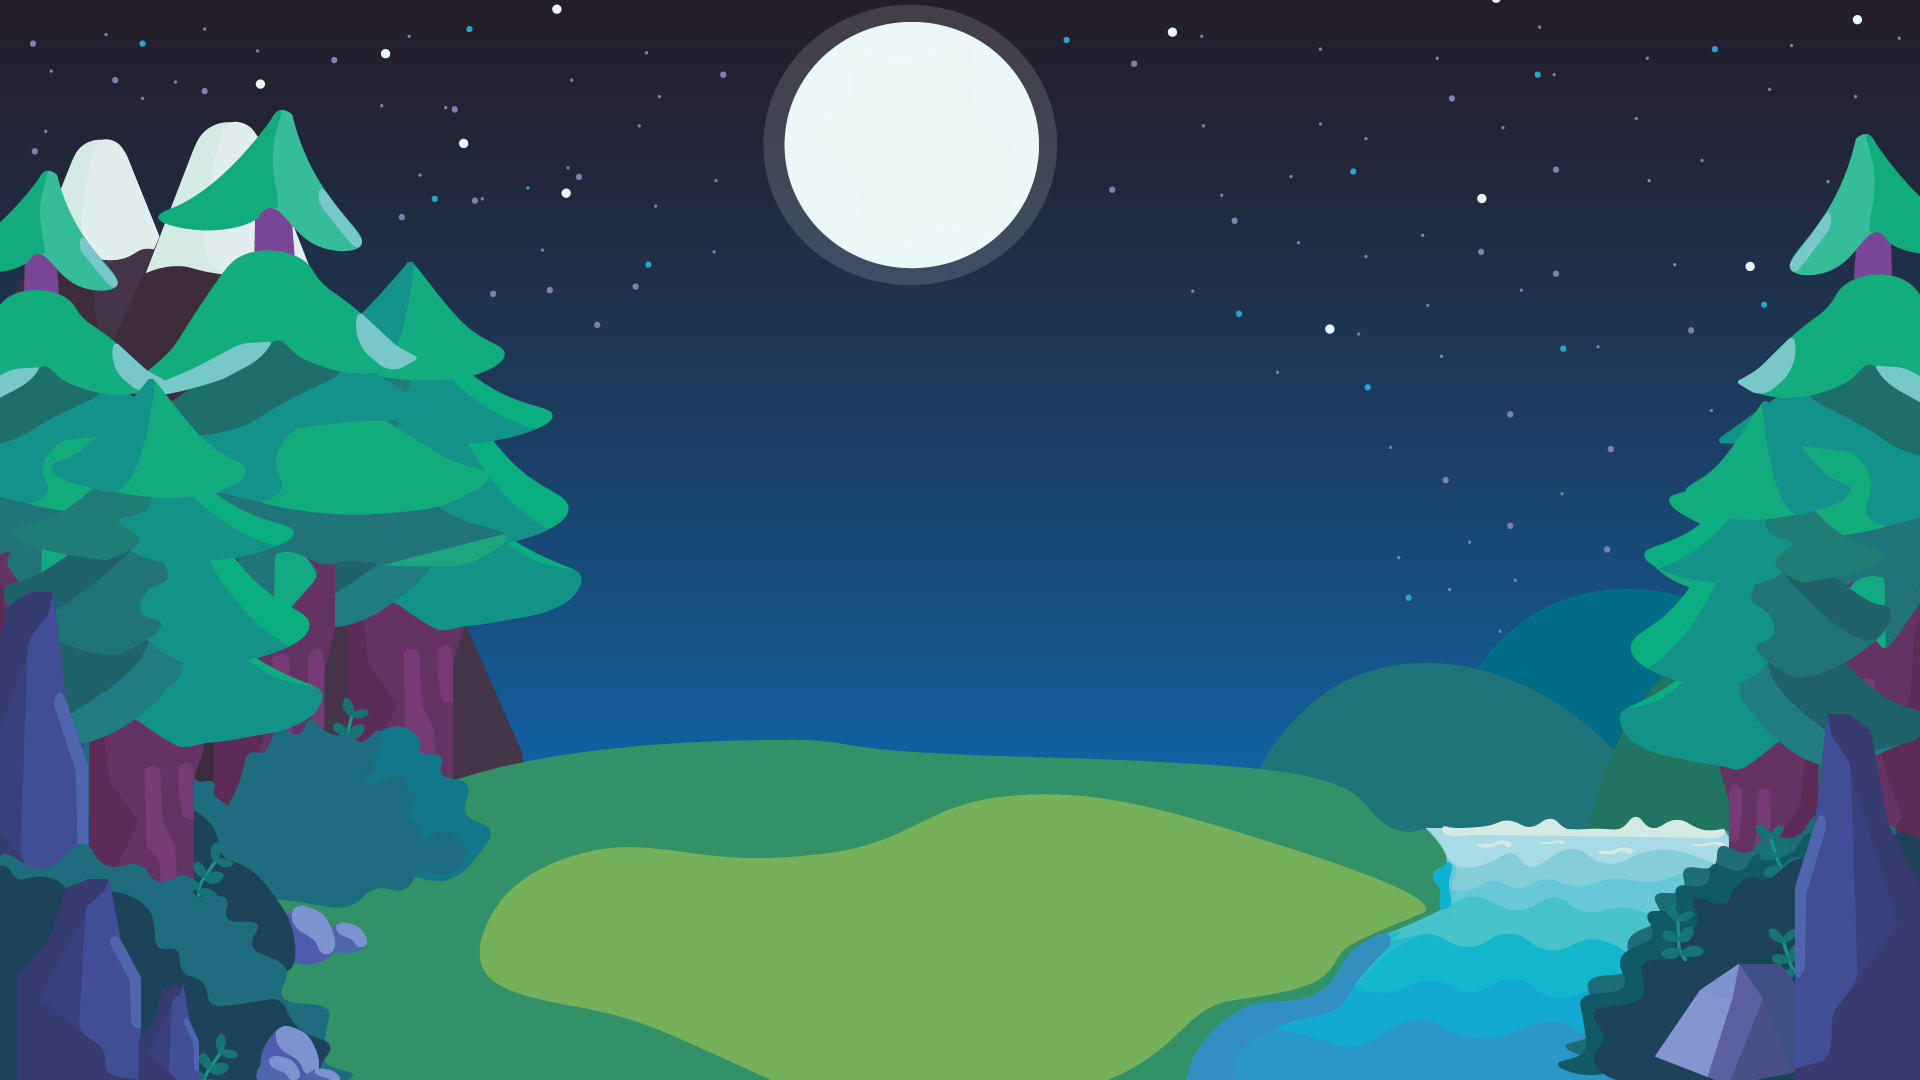
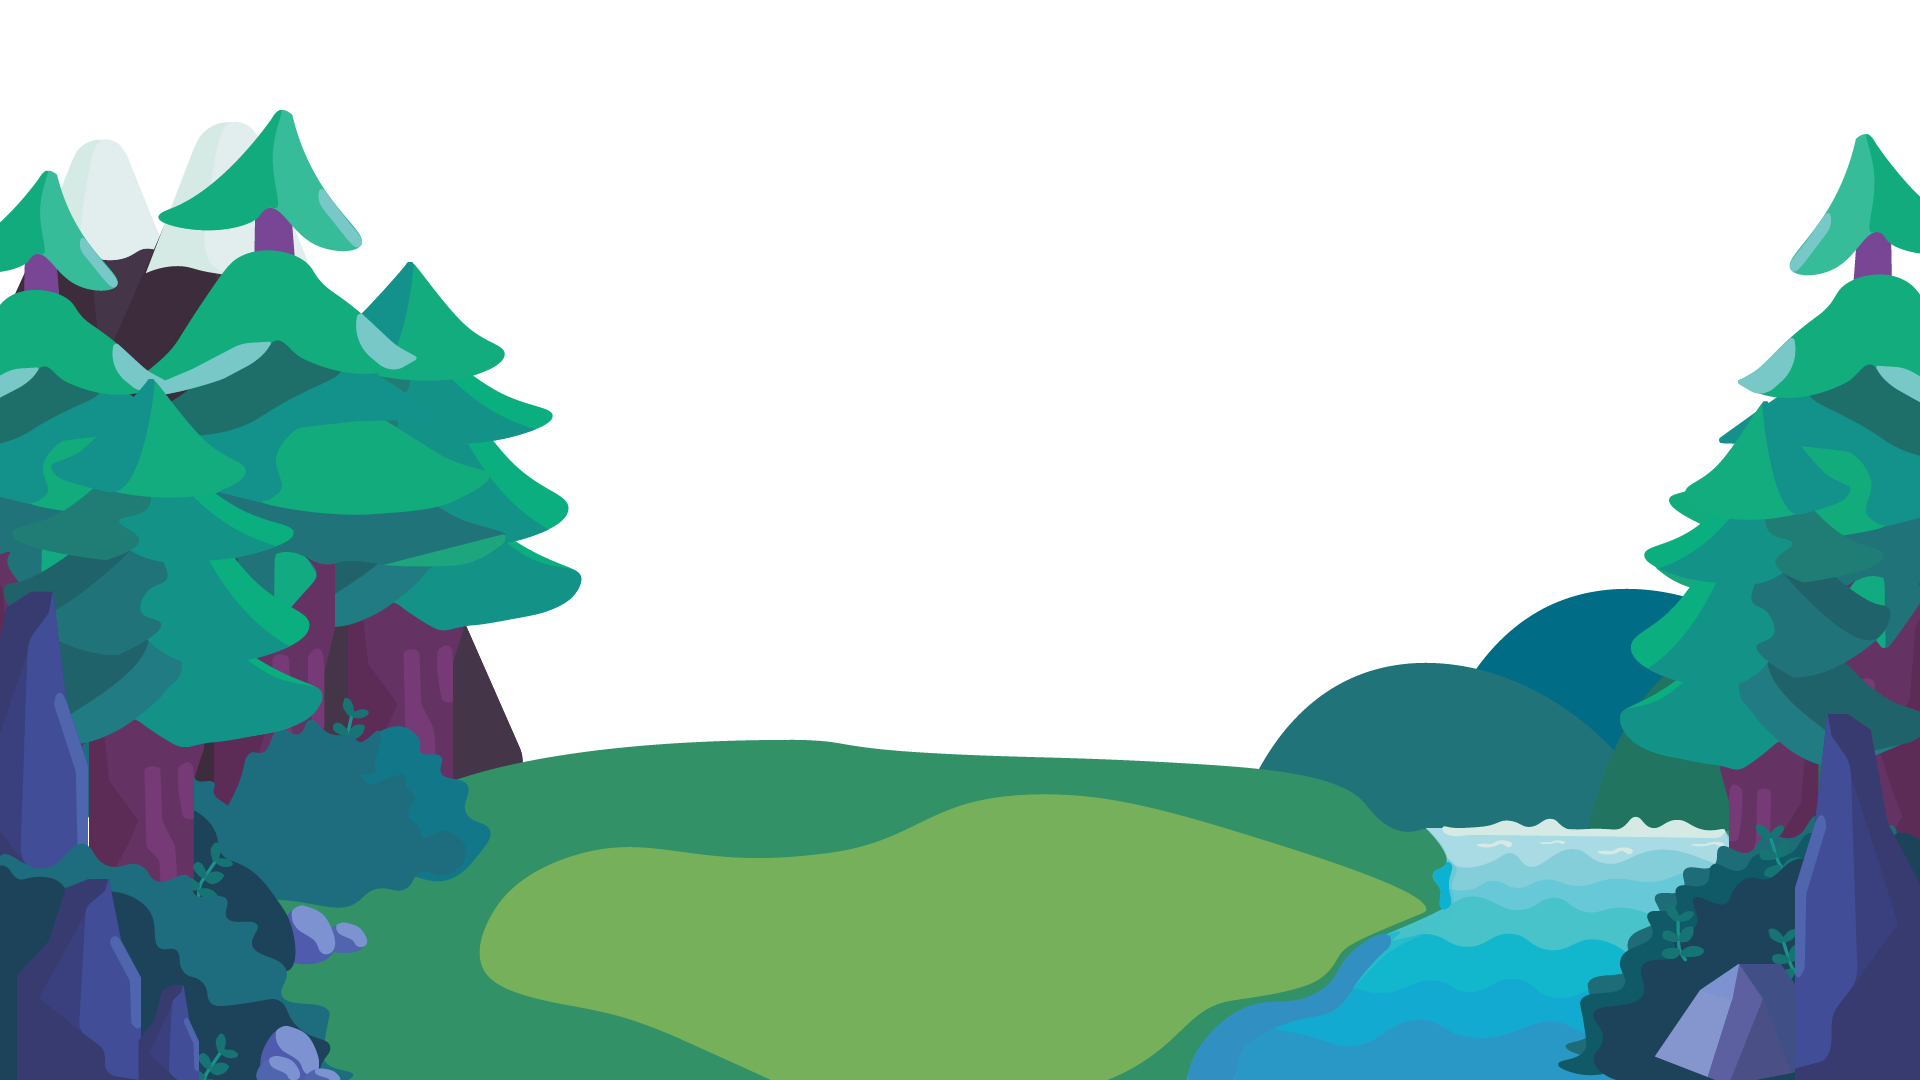
Feat: added dark mode

diff --git a/src/components/HomePage/Home.tsx b/src/components/HomePage/Home.tsx
@@ -22,7 +22,10 @@ export const scrollToSection = (
 
 const HomePage: React.FunctionComponent<IHomeProps> = (props) => {
   const [dimHeader, setDimHeader] = useState<boolean>(false);
+  const [lightMode, setLightMode] = useState<boolean>(false);
   const scrollComponentRef = useRef<HTMLDivElement>(null);
+  const [hovered, setHovered] = useState<boolean>(false);
+  const [highlightImage, setHighlightImage] = useState<string>("");
   const navigate = useNavigate();
 
   useEffect(() => {
@@ -56,6 +59,28 @@ const HomePage: React.FunctionComponent<IHomeProps> = (props) => {
         exit={{ opacity: 0, y: 400 }}
         transition={{ duration: 0.2 }}
       >
+        <div className="context-menu">
+          <a href="https://www.linkedin.com/in/roberto-gonzales-matos-a24092295/">
+            <img
+              src="/PortfolioWebsite/LinkedIn.webp"
+              style={{ width: "50px", height: "auto", borderRadius: "15px" }}
+            />
+          </a>
+          <a href="https://github.com/RobertoGonzalesMatos/PortfolioWebsite">
+            <img
+              src="/PortfolioWebsite/GitHub.webp"
+              style={{ width: "50px", height: "auto" }}
+            />
+          </a>
+          <img
+            className="SunMoon"
+            onClick={() => {
+              setLightMode(!lightMode);
+            }}
+            src={"/PortfolioWebsite/" + (lightMode ? "Luna" : "Sol") + ".webp"}
+            alt="SunMoon"
+          />
+        </div>
         <VerticalScroll ref={scrollComponentRef}>
           <div className="bannerContainer">
             <Banner />
@@ -63,6 +88,17 @@ const HomePage: React.FunctionComponent<IHomeProps> = (props) => {
           </div>
           <div className="container">
             <div className="image-container">
+              {hovered && (
+                <img
+                  className="roomHighlight"
+                  src={
+                    "/PortfolioWebsite/Highlights/" +
+                    highlightImage +
+                    "Highlight.webp"
+                  }
+                  alt="room"
+                />
+              )}
               <img
                 className="room"
                 src="/PortfolioWebsite/room3D.webp"
@@ -72,35 +108,79 @@ const HomePage: React.FunctionComponent<IHomeProps> = (props) => {
                 <polygon
                   points="110,805 75,680 79,540 100,540 215,683 255,700 257,749"
                   onClick={() => navigate("/Music")}
+                  onMouseEnter={() => {
+                    setHovered(true);
+                    setHighlightImage("Music");
+                  }}
+                  onMouseLeave={() => {
+                    setHovered(false);
+                    setHighlightImage("");
+                  }}
                   className="clickable-polygon"
                 />
                 <polygon
                   points="105,564 120,465 280,465 365,525 175,592"
                   onClick={() => navigate("/Misc")}
+                  onMouseEnter={() => {
+                    setHovered(true);
+                    setHighlightImage("Misc");
+                  }}
+                  onMouseLeave={() => {
+                    setHovered(false);
+                    setHighlightImage("");
+                  }}
                   className="clickable-polygon"
                 />
                 <polygon
                   points="118,441 300,345 385,408 200,475"
                   onClick={() => navigate("/DanceSports")}
+                  onMouseEnter={() => {
+                    setHovered(true);
+                    setHighlightImage("Dance");
+                  }}
+                  onMouseLeave={() => {
+                    setHovered(false);
+                    setHighlightImage("");
+                  }}
                   className="clickable-polygon"
                 />
                 <polygon
                   points="420,735 415,630 435,520 585,532 585,622 720,650 755,685 750,800 660,832"
                   onClick={() => navigate("/Code")}
+                  onMouseEnter={() => {
+                    setHovered(true);
+                    setHighlightImage("Code");
+                  }}
+                  onMouseLeave={() => {
+                    setHovered(false);
+                    setHighlightImage("");
+                  }}
                   className="clickable-polygon"
                 />
                 <polygon
                   points="400,400 398,275 565,340 565,465"
                   onClick={() => navigate("/AboutMe")}
+                  onMouseEnter={() => {
+                    setHovered(true);
+                    setHighlightImage("AboutMe");
+                  }}
+                  onMouseLeave={() => {
+                    setHovered(false);
+                    setHighlightImage("");
+                  }}
                   className="clickable-polygon"
                 />
-                {/* Add more polygons as needed */}
               </svg>
             </div>
             <img
               className="background-image"
               src="/PortfolioWebsite/camping.webp"
               alt="Camping"
+            />
+            <img
+              className={lightMode ? "ski day" : "sky"}
+              src="/PortfolioWebsite/sky.webp"
+              alt="sky"
             />
           </div>
         </VerticalScroll>

diff --git a/src/components/App.css b/src/components/App.css
@@ -14,10 +14,12 @@ body {
 }
 .container {
   display: flex;
-  height: 200%;
+  height: 980px;
+  width: 100%;
   margin-inline: auto;
   position: relative;
   justify-content: center;
+  overflow: hidden;
 }
 
 .background-image {
@@ -51,6 +53,15 @@ body {
   height: auto; /* Adjust as needed */
 }
 
+.roomHighlight {
+  top: 24vh;
+  z-index: 7;
+  position: absolute;
+  width: 780px; /* Adjust as needed */
+  height: auto; /* Adjust as needed */
+  pointer-events: none;
+}
+
 .image-container {
   position: relative;
   display: inline-block;
@@ -69,6 +80,46 @@ body {
   fill: rgba(255, 255, 255, 0);
   pointer-events: all;
   cursor: pointer;
+}
+
+.sky {
+  position: absolute;
+  z-index: -2;
+  height: auto; /* Adjust as needed */
+  top: -325px;
+  width: 2600px; /* Adjust as needed */
+  transition: all 7s ease;
+  /* transform: rotateZ(180deg); */
+}
+
+.day {
+  position: absolute;
+  z-index: -2;
+  height: auto; /* Adjust as needed */
+  top: -325px;
+  width: 2600px; /* Adjust as needed */
+  transition: all 7s ease;
+  transform: rotateZ(180deg);
+}
+
+.context-menu {
+  background-color: rgba(188, 185, 185, 0.409);
+  border-radius: 25px;
+  padding-top: 5px;
+  padding-bottom: 5px;
+  top: 790px;
+  left: 15px;
+  position: absolute;
+  z-index: 100;
+  display: flex;
+  flex-direction: column;
+  align-items: center;
+  width: 5%;
+}
+
+.SunMoon {
+  width: 60%;
+  height: auto;
 }
 
 /* .clickable-polygon:hover {
